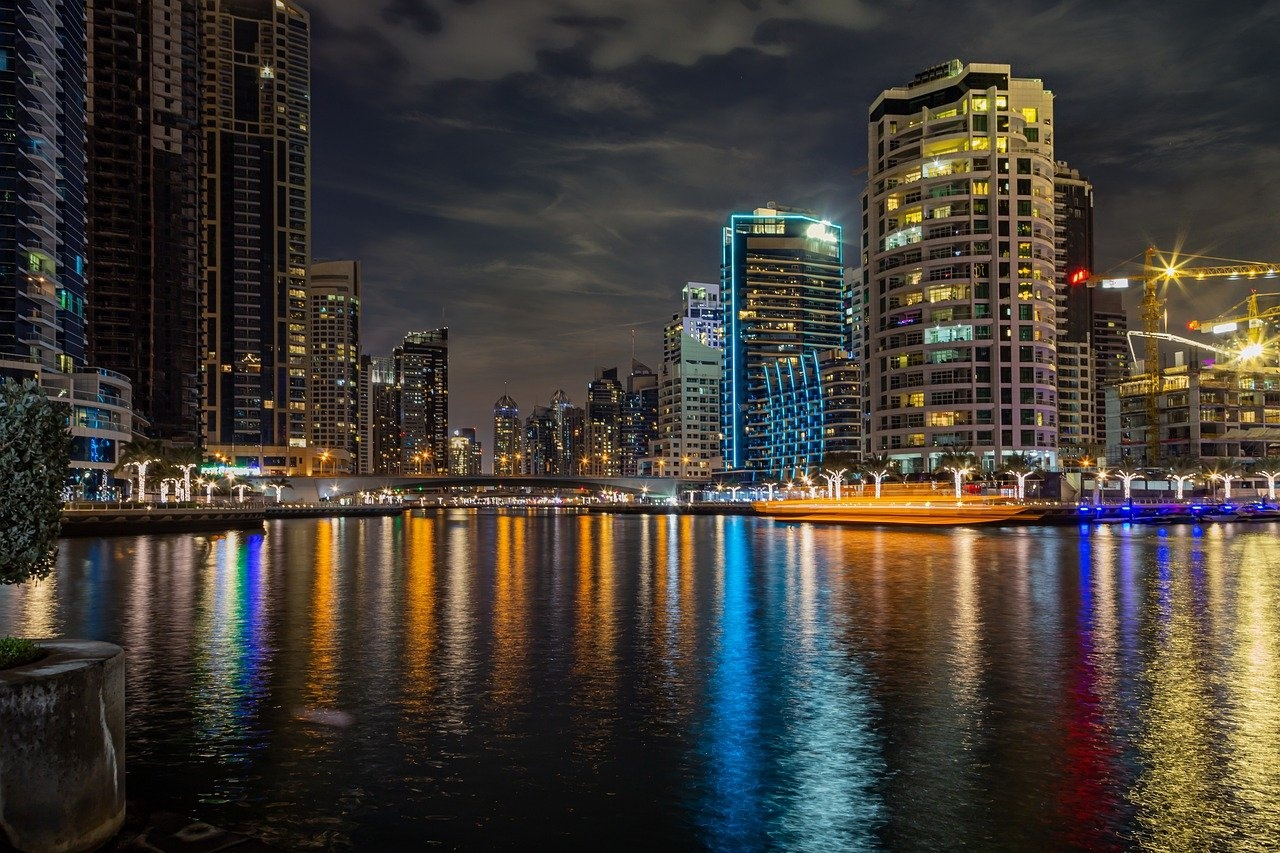
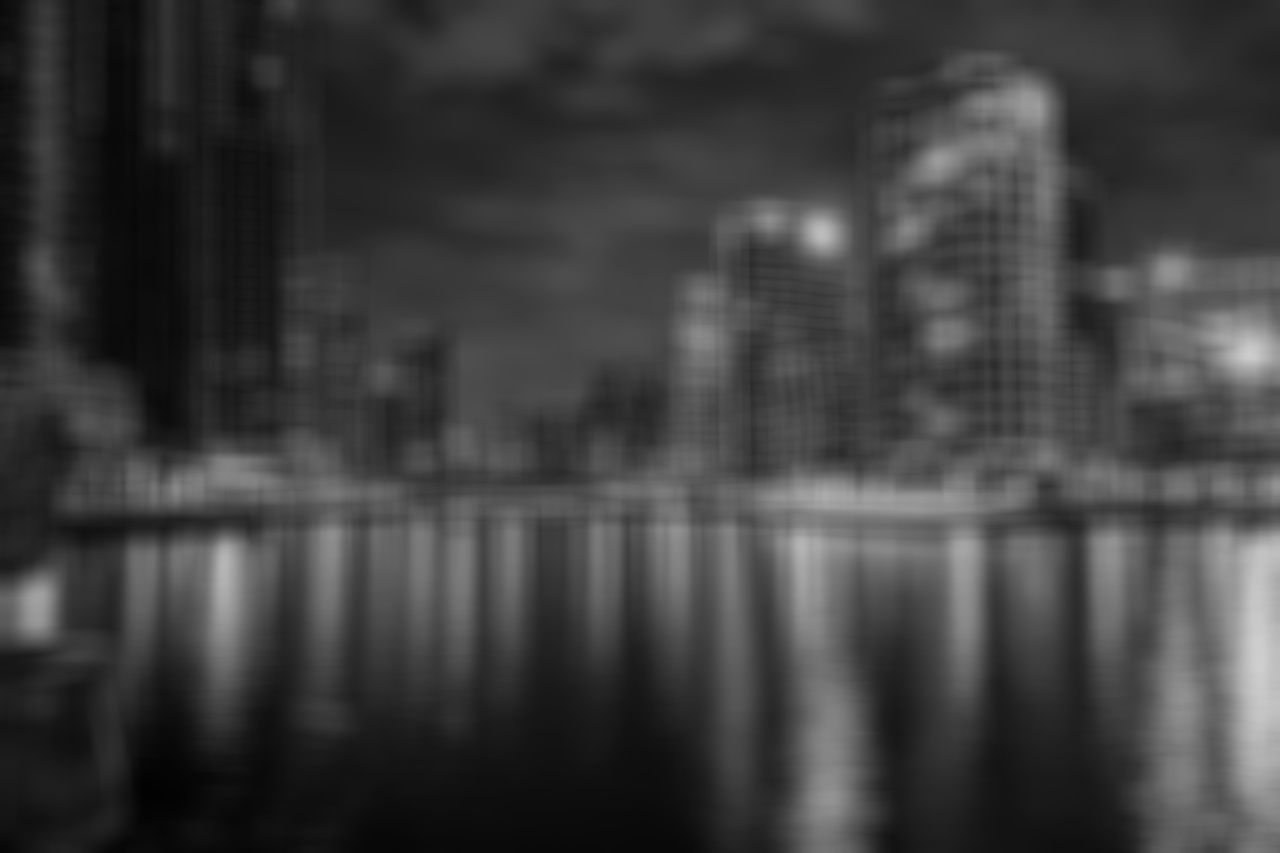
📘 - Add logs

diff --git a/controller/mainController.py b/controller/mainController.py
@@ -1,6 +1,5 @@
 import cv2
-
-from controller import filterController, imagesController, argsController
+from controller import filterController, imagesController, argsController, loggerController
 
 """
 This is the main controller of the program.
@@ -9,7 +8,7 @@ This is the controller that will be used to control the program.
 
 args = ["-f", "--filter"]
 images_list = imagesController.get_images()
-
+loggerController.add_log("------ Program as been lunch ------")
 for arg in args:
     if arg in argsController.get_args():
         filters_list = argsController.get_dictionary('--filter')
@@ -22,15 +21,15 @@ for arg in args:
             print(f"Processing image {i+1} of {len(images_list)}")
 
             if 'blur' in filters_list and filters_list['blur'] != None:
-                image = filterController.to_blur(image, int(filters_list['blur']))
+                image = filterController.to_blur(image, filters_list['blur'], image_path)
                 print("[INFO] Blur filter applied")
 
             if 'grayscale' in filters_list and filters_list['grayscale'] != None:
-                image = filterController.to_grayscale(image)
+                image = filterController.to_grayscale(image, image_path)
                 print("[INFO] Grayscale filter applied")
 
             if 'dilate' in filters_list and filters_list['dilate'] != None:
-                image = filterController.to_dilate(image, int(filters_list['dilate']))
+                image = filterController.to_dilate(image, filters_list['dilate'], image_path)
                 print("[INFO] Dilate filter applied")
 
             print(f"[INFO] Saving image {images_list[i]}")

diff --git a/controller/filterController.py b/controller/filterController.py
@@ -1,12 +1,13 @@
 import cv2
 import numpy
+from controller import loggerController
 
 """
 This class is used to filter the image.
 """
 
 
-def to_grayscale(image):
+def to_grayscale(image, image_path):
     """
     Convert a colored image to grayscale.
     :param path: path to the image
@@ -14,10 +15,11 @@ def to_grayscale(image):
     """
     # Convert the image to grayscale.
     gray = cv2.cvtColor(image, cv2.COLOR_BGR2GRAY)
+    loggerController.add_log(f'Set image to grayscale: {image_path}')
     return gray
 
 
-def to_blur(image, value):
+def to_blur(image, value, image_path):
     """
     Blur the image.
     :param path: path to the image
@@ -27,10 +29,11 @@ def to_blur(image, value):
     # Blur the image.
     value = value * 10
     blur = cv2.blur(image, (value, value))
+    loggerController.add_log(f'Set image to blur: {image_path}')
     return blur
 
 
-def to_dilate(image, value):
+def to_dilate(image, value, image_path):
     """
     Dilate the image.
     :param path: path to the image
@@ -40,4 +43,5 @@ def to_dilate(image, value):
     # Dilate the image.
     kernel = numpy.ones((value, value), numpy.uint8) # Create a kernel.
     dilate = cv2.dilate(image, kernel) # Dilate the image.
+    loggerController.add_log(f'Set image to dilate: {image_path}')
     return dilate

diff --git a/controller/loggerController.py b/controller/loggerController.py
@@ -1,0 +1,16 @@
+from datetime import datetime
+log_file = "./data/ImageFilter.log"
+
+
+def add_log(message):
+    now = datetime.now()
+    timestamp = now.strftime('%Y/%m/%d %H:%M:%S')
+    formatted = f'{timestamp} - {message}'
+    with open(log_file, 'a') as f:
+        f.write(formatted+ '\n')
+
+
+
+def dump_log():
+    with open (log_file,'r') as f:
+        print(f.read())

diff --git a/main.py b/main.py
@@ -1,5 +1,4 @@
 from controller import mainController  # Import the main controller in controller/mainController.py
-
 """
 Main file of the project.
 This file is the entry point of the project.
